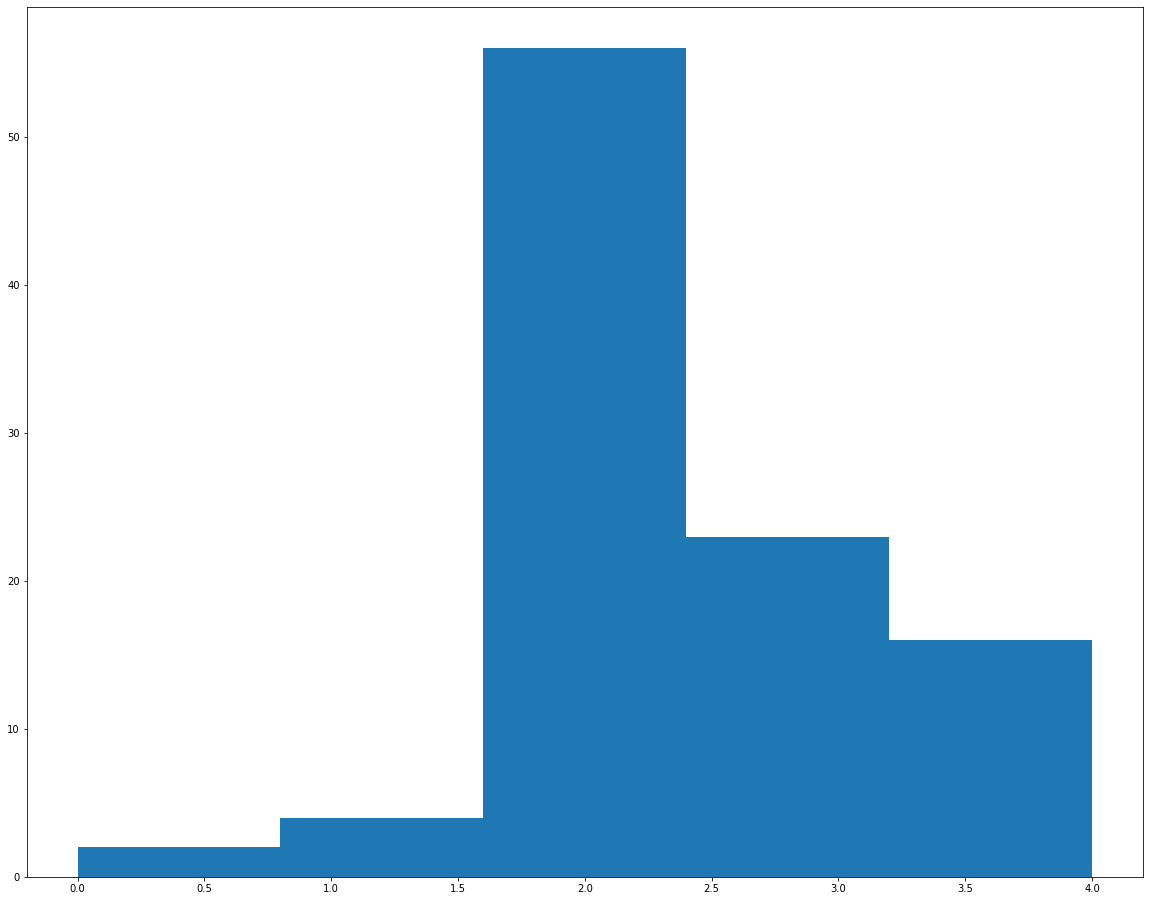
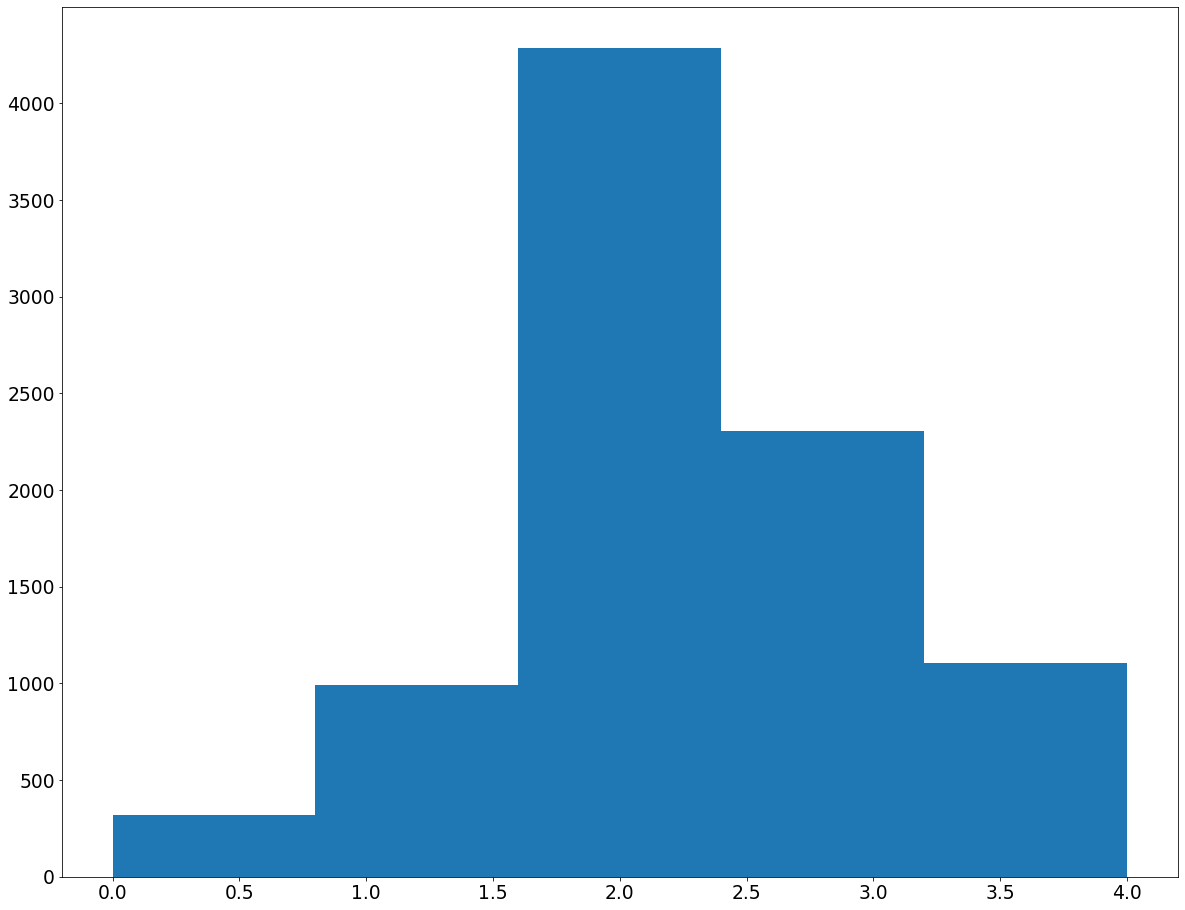
plot in TransientSimulator uses bigger font

diff --git a/model_python/TransientSimulator.py b/model_python/TransientSimulator.py
@@ -2,6 +2,8 @@ import numpy as np
 import matplotlib.pyplot as plt
 from ModelsSetup import *
 
+
+
 class TransientSimulator:
 
     def __init__(self, t, l, params):
@@ -18,7 +20,7 @@ class TransientSimulator:
         self.params["l"] = l
         self.transition_probabilities = read_model("DISCRETE_1", self.params)
 
-    def simulate(self, init_state: States, nr_steps):
+    def simulate(self, init_state: States):
         history = [init_state]
         init_state_nr = init_state.value
 
@@ -36,7 +38,7 @@ class TransientSimulator:
 
         # Plotting visiting frequency
         self.plot_state_frequency(history=history)
-        self.customers_not_fitting(history=history, nr_steps=nr_steps)
+        self.customers_not_fitting(history=history, nr_steps=len(self.t))
 
 
     def plot_state_frequency(self, history):
@@ -45,6 +47,16 @@ class TransientSimulator:
         :param history: recorded sequence of visited states
         """
         nr_states = len(list(map(int, States)))
+        size=25
+        # size=15
+        plot_params = {'legend.fontsize': 'large',
+          'figure.figsize': (20,8),
+          'axes.labelsize': size,
+          'axes.titlesize': size,
+          'xtick.labelsize': size*0.75,
+          'ytick.labelsize': size*0.75,
+          'axes.titlepad': 25}
+        plt.rcParams.update(plot_params)
         fig, ax = plt.subplots(2, figsize=(nr_states*4, 16))
         # fig, ax = plt.subplots(figsize=(2))
         ax[0].plot(self.t, self.l)

diff --git a/model_python/main_ivan.py b/model_python/main_ivan.py
@@ -33,9 +33,11 @@ model = StochasticModel(params, type=Models.DISCRETE_1)
 simulator = TransientSimulator(t = t, l = l, params = params)
 
 # running simulator
-simulator.simulate(init_state=States.FF, nr_steps=100)
+simulator.simulate(init_state=States.FF)
 
-
+#static simulator
+simulator_static = Simulator(transition_probabilities=model.matrix)
+simulator_static.simulate(init_state=States.FF, nr_steps=9000)
 
 # generatate stationary distribution
 

diff --git a/model_python/main.py b/model_python/main.py
@@ -18,7 +18,7 @@ transition_probabilities = model.get_transition_probabilities(model.matrix)
 simulator = Simulator(transition_probabilities=transition_probabilities)
 
 # running simulator
-simulator.simulate(init_state=States.FF, nr_steps=100)
+simulator.simulate(init_state=States.FF, nr_steps=9000)
 
 
 # Fix conditional probabilities
